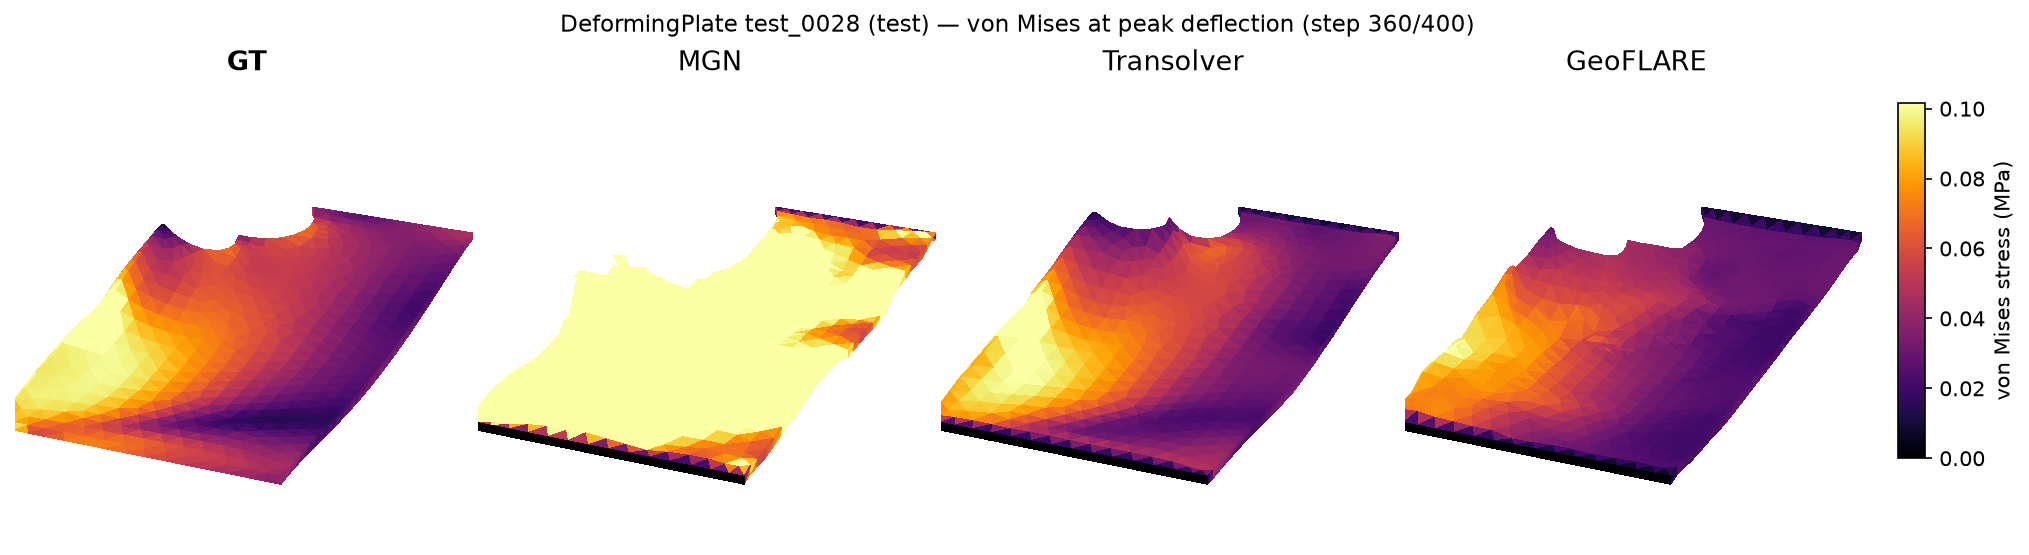
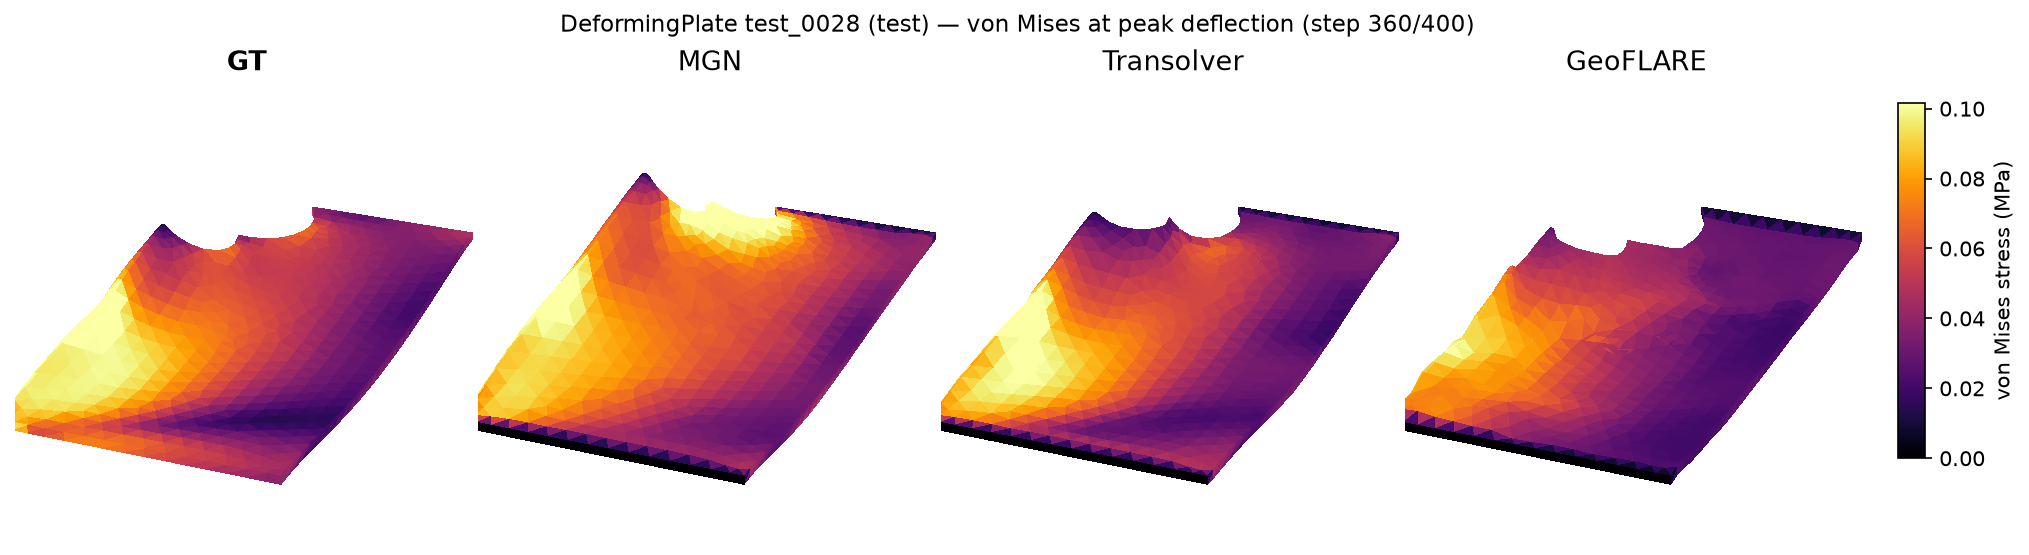
docs(deforming_plate): regenerate DP figures from noise-fixed MGN + update captions
Re-rendered assets/deforming_plate_{vm_methods.png,rollout_methods.gif} with the
noise-fixed MGN rollout (runs/deforming-mgn-n3) replacing the collapsed v03b MGN.
The MGN panel now tracks GT von Mises (rel-L2 0.36, was 4.21) with only mild local
over-prediction near the indent; the earlier saturated-stress collapse is gone.
Captions rewritten to describe the repaired figure (dropped the interim
'pre-fix / scheduled for regeneration' note). Figure source (scratch/reeval-dp/
make_dp_figs.py) MGN run switched v03b -> n3.

Completes the DP noise-fix card update. The 1.75M checkpoint is placed at
models/deforming_plate/mgn-eb39994/ (sha verified, untracked per checkpoint
convention - stage to the private archive).

Claude-Session: https://claude.ai/code/session_01EQz3fEsxEcyW19JLnDL61J

Changed region(s): [[0.2173, 0.3063, 0.4657, 0.8577]]

diff --git a/src/structbench/benchmarks/deforming_plate/card.py b/src/structbench/benchmarks/deforming_plate/card.py
@@ -53,16 +53,15 @@ _FIGURES = (
             "Ground truth vs the three baselines (MGN, Transolver, GeoFLARE) on "
             "test_0028, the plate coloured by von Mises STRESS over the "
             "press-release rollout - the actuator indents to ~65 mm then "
-            "retracts. Read the colour as a secondary, non-published field. NOTE: "
-            "the MGN panel here is the PRE-noise-fix model, which over-predicts "
-            "stress as the mesh drifts and stays stuck high when the plate "
-            "releases - a rollout-coupled artifact of effectively noise-free "
-            "training. The 2026-08-20 noise fix (noise_std to the working frame) "
-            "REPAIRS this collapse (von Mises relative L2 4.21 -> 0.36); this "
-            "figure is scheduled for regeneration from the fixed model. MGN's "
-            "POSITION result is faithful either way (pooled rollout RMSE now "
-            "15.45 mm, in the 15.1 +/- 4.0 band). Transolver's more stable rollout "
-            "keeps its stress tracking ground truth throughout; GeoFLARE is "
+            "retracts. Read the colour as a secondary, non-published field. MGN "
+            "is the noise-fixed model (noise_std corrected to the working frame, "
+            "2026-08-20): its stress now tracks ground truth over the whole cycle "
+            "(relative L2 0.36, down from 4.21 before the fix), with only mild "
+            "local over-prediction near the indent - the earlier rollout collapse "
+            "(stress stuck saturated as the mesh drifted, an artifact of "
+            "effectively noise-free training) is gone. MGN's POSITION result stays "
+            "faithful (pooled rollout RMSE 15.45 mm, in the 15.1 +/- 4.0 band). "
+            "Transolver tracks stress most closely (relative L2 0.24); GeoFLARE is "
             "between. Transolver and GeoFLARE are provisional native baselines "
             "(ADR-0044/0045)."
         ),
@@ -78,16 +77,16 @@ _FIGURES = (
             "ground truth vs MGN, Transolver, GeoFLARE. Stress is a "
             "non-published secondary here (the paper reports only position). "
             "MGN reproduces the paper's POSITION result faithfully - pooled "
-            "rollout RMSE now 15.45 mm, inside the 15.1 +/- 4.0 band and matching "
-            "it at every horizon. NOTE: the MGN panel here is the PRE-noise-fix "
-            "model, whose stress over-predicts as the mesh drifts (relative L2 "
-            "4.21) - a rollout-coupled artifact of effectively noise-free "
-            "training, NOT a broken model. The 2026-08-20 noise fix repairs it "
-            "(relative L2 4.21 -> 0.36, comparable to Transolver's 0.24); this "
-            "figure is scheduled for regeneration from the fixed model. Transolver "
-            "runs the identical stress pipeline and tracks ground truth almost "
-            "exactly (relative L2 0.24); GeoFLARE (0.35) is between. Transolver and "
-            "GeoFLARE are provisional native baselines (ADR-0044/0045)."
+            "rollout RMSE 15.45 mm, inside the 15.1 +/- 4.0 band and matching it "
+            "at every horizon. MGN is the noise-fixed model (2026-08-20): its "
+            "stress field now tracks ground truth (relative L2 0.36, comparable to "
+            "Transolver's 0.24), with only mild local over-prediction near the "
+            "indent - the earlier collapse (relative L2 4.21, stress saturated as "
+            "the mesh drifted) was an artifact of effectively noise-free training, "
+            "repaired by correcting the training noise to the working frame. "
+            "Transolver tracks ground truth most closely (relative L2 0.24); "
+            "GeoFLARE (0.35) is between. Transolver and GeoFLARE are provisional "
+            "native baselines (ADR-0044/0045)."
         ),
         alt=(
             "Grid of von Mises snapshots: ground truth and MGN, Transolver, "

diff --git a/docs/benchmarks/deforming_plate.md b/docs/benchmarks/deforming_plate.md
@@ -46,11 +46,11 @@ below.
 
 ![Four-panel animation: ground truth and MGN, Transolver, GeoFLARE predictions of the deforming plate's von Mises stress.](../../assets/deforming_plate_rollout_methods.gif)
 
-*Ground truth vs the three baselines (MGN, Transolver, GeoFLARE) on test_0028, the plate coloured by von Mises STRESS over the press-release rollout - the actuator indents to ~65 mm then retracts. Read the colour as a secondary, non-published field. NOTE: the MGN panel here is the PRE-noise-fix model, which over-predicts stress as the mesh drifts and stays stuck high when the plate releases - a rollout-coupled artifact of effectively noise-free training. The 2026-08-20 noise fix (noise_std to the working frame) REPAIRS this collapse (von Mises relative L2 4.21 -> 0.36); this figure is scheduled for regeneration from the fixed model. MGN's POSITION result is faithful either way (pooled rollout RMSE now 15.45 mm, in the 15.1 +/- 4.0 band). Transolver's more stable rollout keeps its stress tracking ground truth throughout; GeoFLARE is between. Transolver and GeoFLARE are provisional native baselines (ADR-0044/0045).*
+*Ground truth vs the three baselines (MGN, Transolver, GeoFLARE) on test_0028, the plate coloured by von Mises STRESS over the press-release rollout - the actuator indents to ~65 mm then retracts. Read the colour as a secondary, non-published field. MGN is the noise-fixed model (noise_std corrected to the working frame, 2026-08-20): its stress now tracks ground truth over the whole cycle (relative L2 0.36, down from 4.21 before the fix), with only mild local over-prediction near the indent - the earlier rollout collapse (stress stuck saturated as the mesh drifted, an artifact of effectively noise-free training) is gone. MGN's POSITION result stays faithful (pooled rollout RMSE 15.45 mm, in the 15.1 +/- 4.0 band). Transolver tracks stress most closely (relative L2 0.24); GeoFLARE is between. Transolver and GeoFLARE are provisional native baselines (ADR-0044/0045).*
 
 ![Grid of von Mises snapshots: ground truth and MGN, Transolver, GeoFLARE predictions of the deforming plate at peak deflection.](../../assets/deforming_plate_vm_methods.png)
 
-*von Mises STRESS at peak deflection (test_0028, step 360/400): ground truth vs MGN, Transolver, GeoFLARE. Stress is a non-published secondary here (the paper reports only position). MGN reproduces the paper's POSITION result faithfully - pooled rollout RMSE now 15.45 mm, inside the 15.1 +/- 4.0 band and matching it at every horizon. NOTE: the MGN panel here is the PRE-noise-fix model, whose stress over-predicts as the mesh drifts (relative L2 4.21) - a rollout-coupled artifact of effectively noise-free training, NOT a broken model. The 2026-08-20 noise fix repairs it (relative L2 4.21 -> 0.36, comparable to Transolver's 0.24); this figure is scheduled for regeneration from the fixed model. Transolver runs the identical stress pipeline and tracks ground truth almost exactly (relative L2 0.24); GeoFLARE (0.35) is between. Transolver and GeoFLARE are provisional native baselines (ADR-0044/0045).*
+*von Mises STRESS at peak deflection (test_0028, step 360/400): ground truth vs MGN, Transolver, GeoFLARE. Stress is a non-published secondary here (the paper reports only position). MGN reproduces the paper's POSITION result faithfully - pooled rollout RMSE 15.45 mm, inside the 15.1 +/- 4.0 band and matching it at every horizon. MGN is the noise-fixed model (2026-08-20): its stress field now tracks ground truth (relative L2 0.36, comparable to Transolver's 0.24), with only mild local over-prediction near the indent - the earlier collapse (relative L2 4.21, stress saturated as the mesh drifted) was an artifact of effectively noise-free training, repaired by correcting the training noise to the working frame. Transolver tracks ground truth most closely (relative L2 0.24); GeoFLARE (0.35) is between. Transolver and GeoFLARE are provisional native baselines (ADR-0044/0045).*
 
 ## Data at a glance
 
